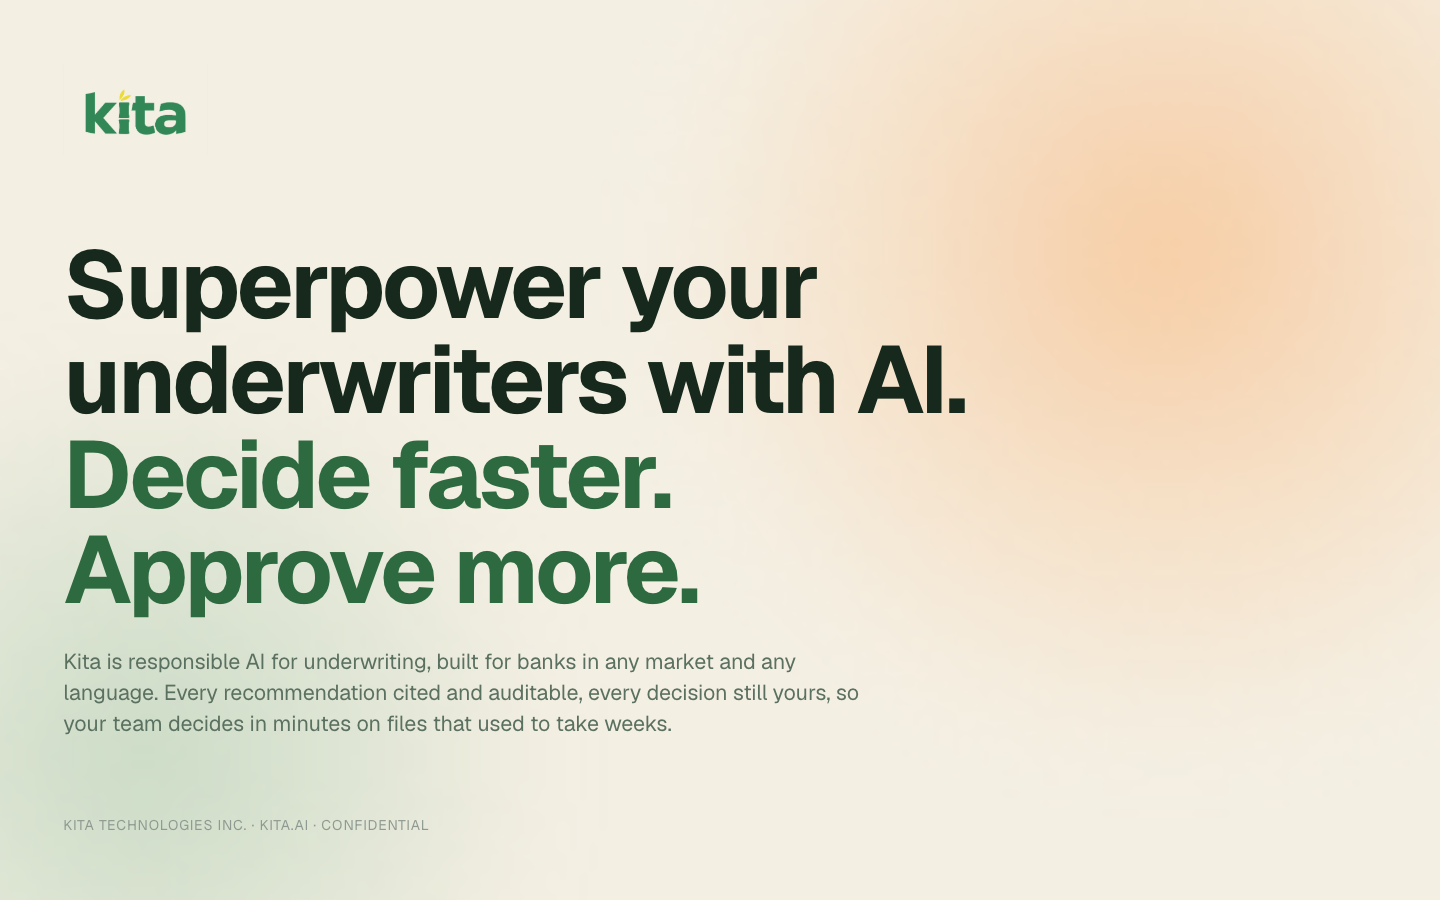
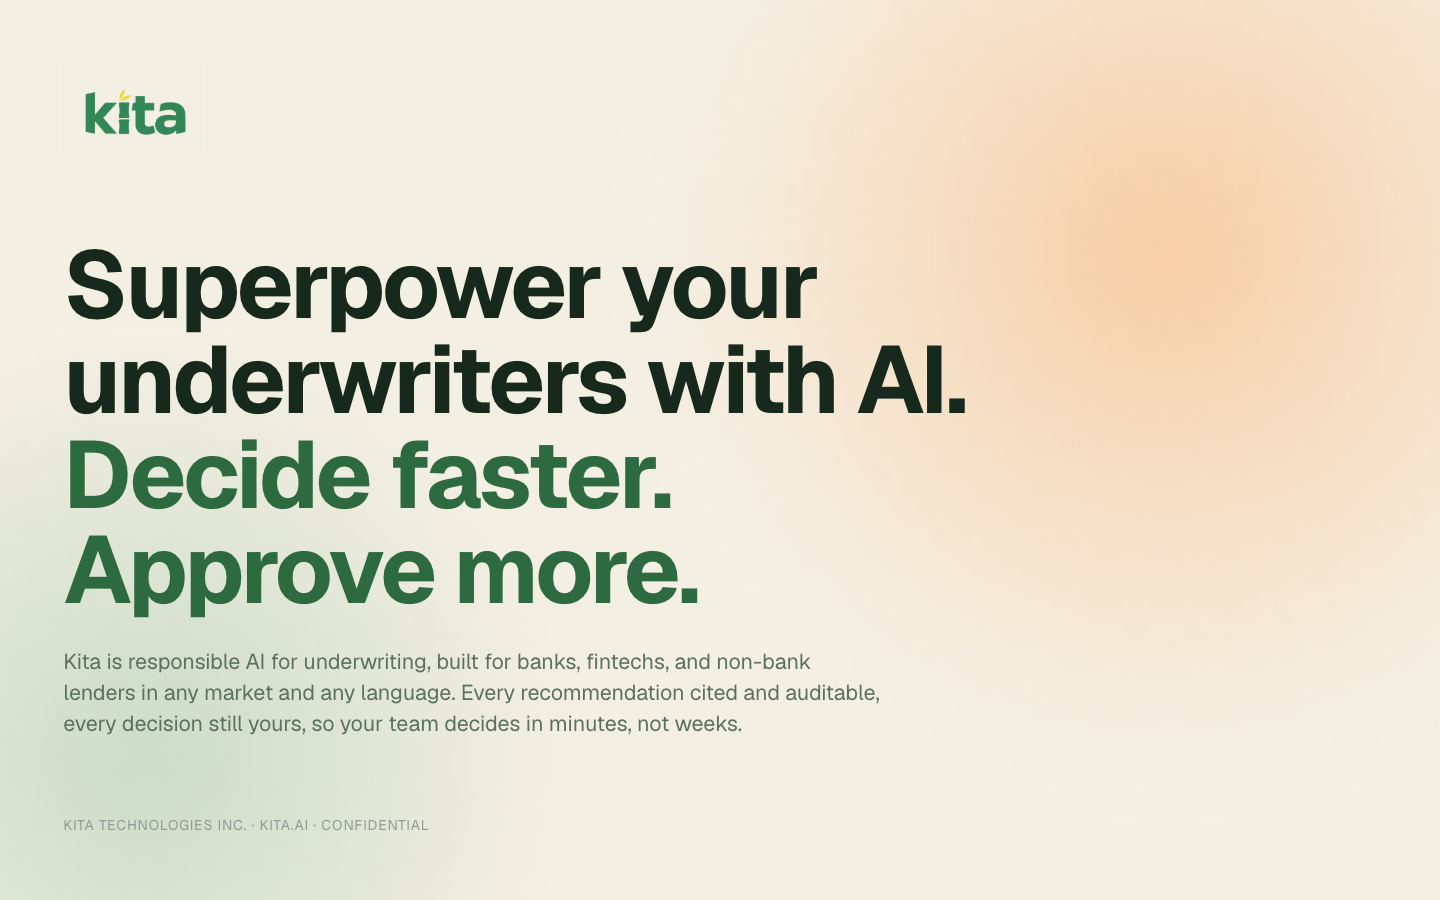
Underwriter: widen the audience to banks, fintechs, and non-bank lenders
"Banks" alone left out the buyers this deck is meant to reach. Updated on the
title slide, the gate, and the page metadata; the mockups' "bank deposits" and
bank_stmt_q2.pdf are document references, not audience, and stay.

The longer list pushed the title subhead to four lines with "weeks." stranded
alone, so the tail tightens to "decides in minutes, not weeks" — back to three
lines and a better sentence. OG image regenerated to match.

Changed region(s): [[0.0312, 0.7156, 0.625, 0.8089]]

diff --git a/app/underwriter/page.js b/app/underwriter/page.js
@@ -6,7 +6,7 @@ import { DECKS } from "@/lib/decks";
 
 const TITLE = "Kita — AI for Underwriting";
 const DESCRIPTION =
-  "Kita reads the documents a business already has, in any format and any language, and drafts a cited credit memo. Responsible AI for underwriting, built for banks in any market.";
+  "Kita reads the documents a business already has, in any format and any language, and drafts a cited credit memo. Responsible AI for underwriting, built for banks, fintechs, and non-bank lenders in any market.";
 
 export const metadata = {
   title: TITLE,
@@ -41,7 +41,7 @@ export default async function Underwriter() {
     return (
       <Gate
         deck="underwriter"
-        blurb="Enter the password to view the Kita deck for banks."
+        blurb="Enter the password to view the Kita deck for banks, fintechs, and non-bank lenders."
         footerLabel="Kita · Underwriting"
       />
     );

diff --git a/components/underwriter/U01Title.jsx b/components/underwriter/U01Title.jsx
@@ -24,7 +24,7 @@ export default function U01Title() {
           </h1>
           <p
             style={{ margin: 0, color: "#5A7060", fontSize: "clamp(15px, 1.5vw, 22px)", lineHeight: 1.45, letterSpacing: "-0.005em", maxWidth: "820px" }}>
-            Kita is responsible AI for underwriting, built for banks in any market and any language. Every recommendation cited and auditable, every decision still yours, so your team decides in minutes on files that used to take weeks.
+            Kita is responsible AI for underwriting, built for banks, fintechs, and non-bank lenders in any market and any language. Every recommendation cited and auditable, every decision still yours, so your team decides in minutes, not weeks.
           </p>
         </div>
         <div

diff --git a/components/underwriter/Slides.jsx b/components/underwriter/Slides.jsx
@@ -1,6 +1,7 @@
-// The underwriter deck: the community deck's narrative, rewritten for banks in
-// any market. Same slide order and file numbering as components/deck/exact, so a
-// file-to-file diff against its community counterpart shows only the copy deltas.
+// The underwriter deck: the community deck's narrative, rewritten for banks,
+// fintechs, and non-bank lenders in any market. Same slide order and file
+// numbering as components/deck/exact, so a file-to-file diff against its
+// community counterpart shows only the copy deltas.
 import U01Title from "./U01Title";
 import U02About from "./U02About";
 import U03BackedBy from "./U03BackedBy";
